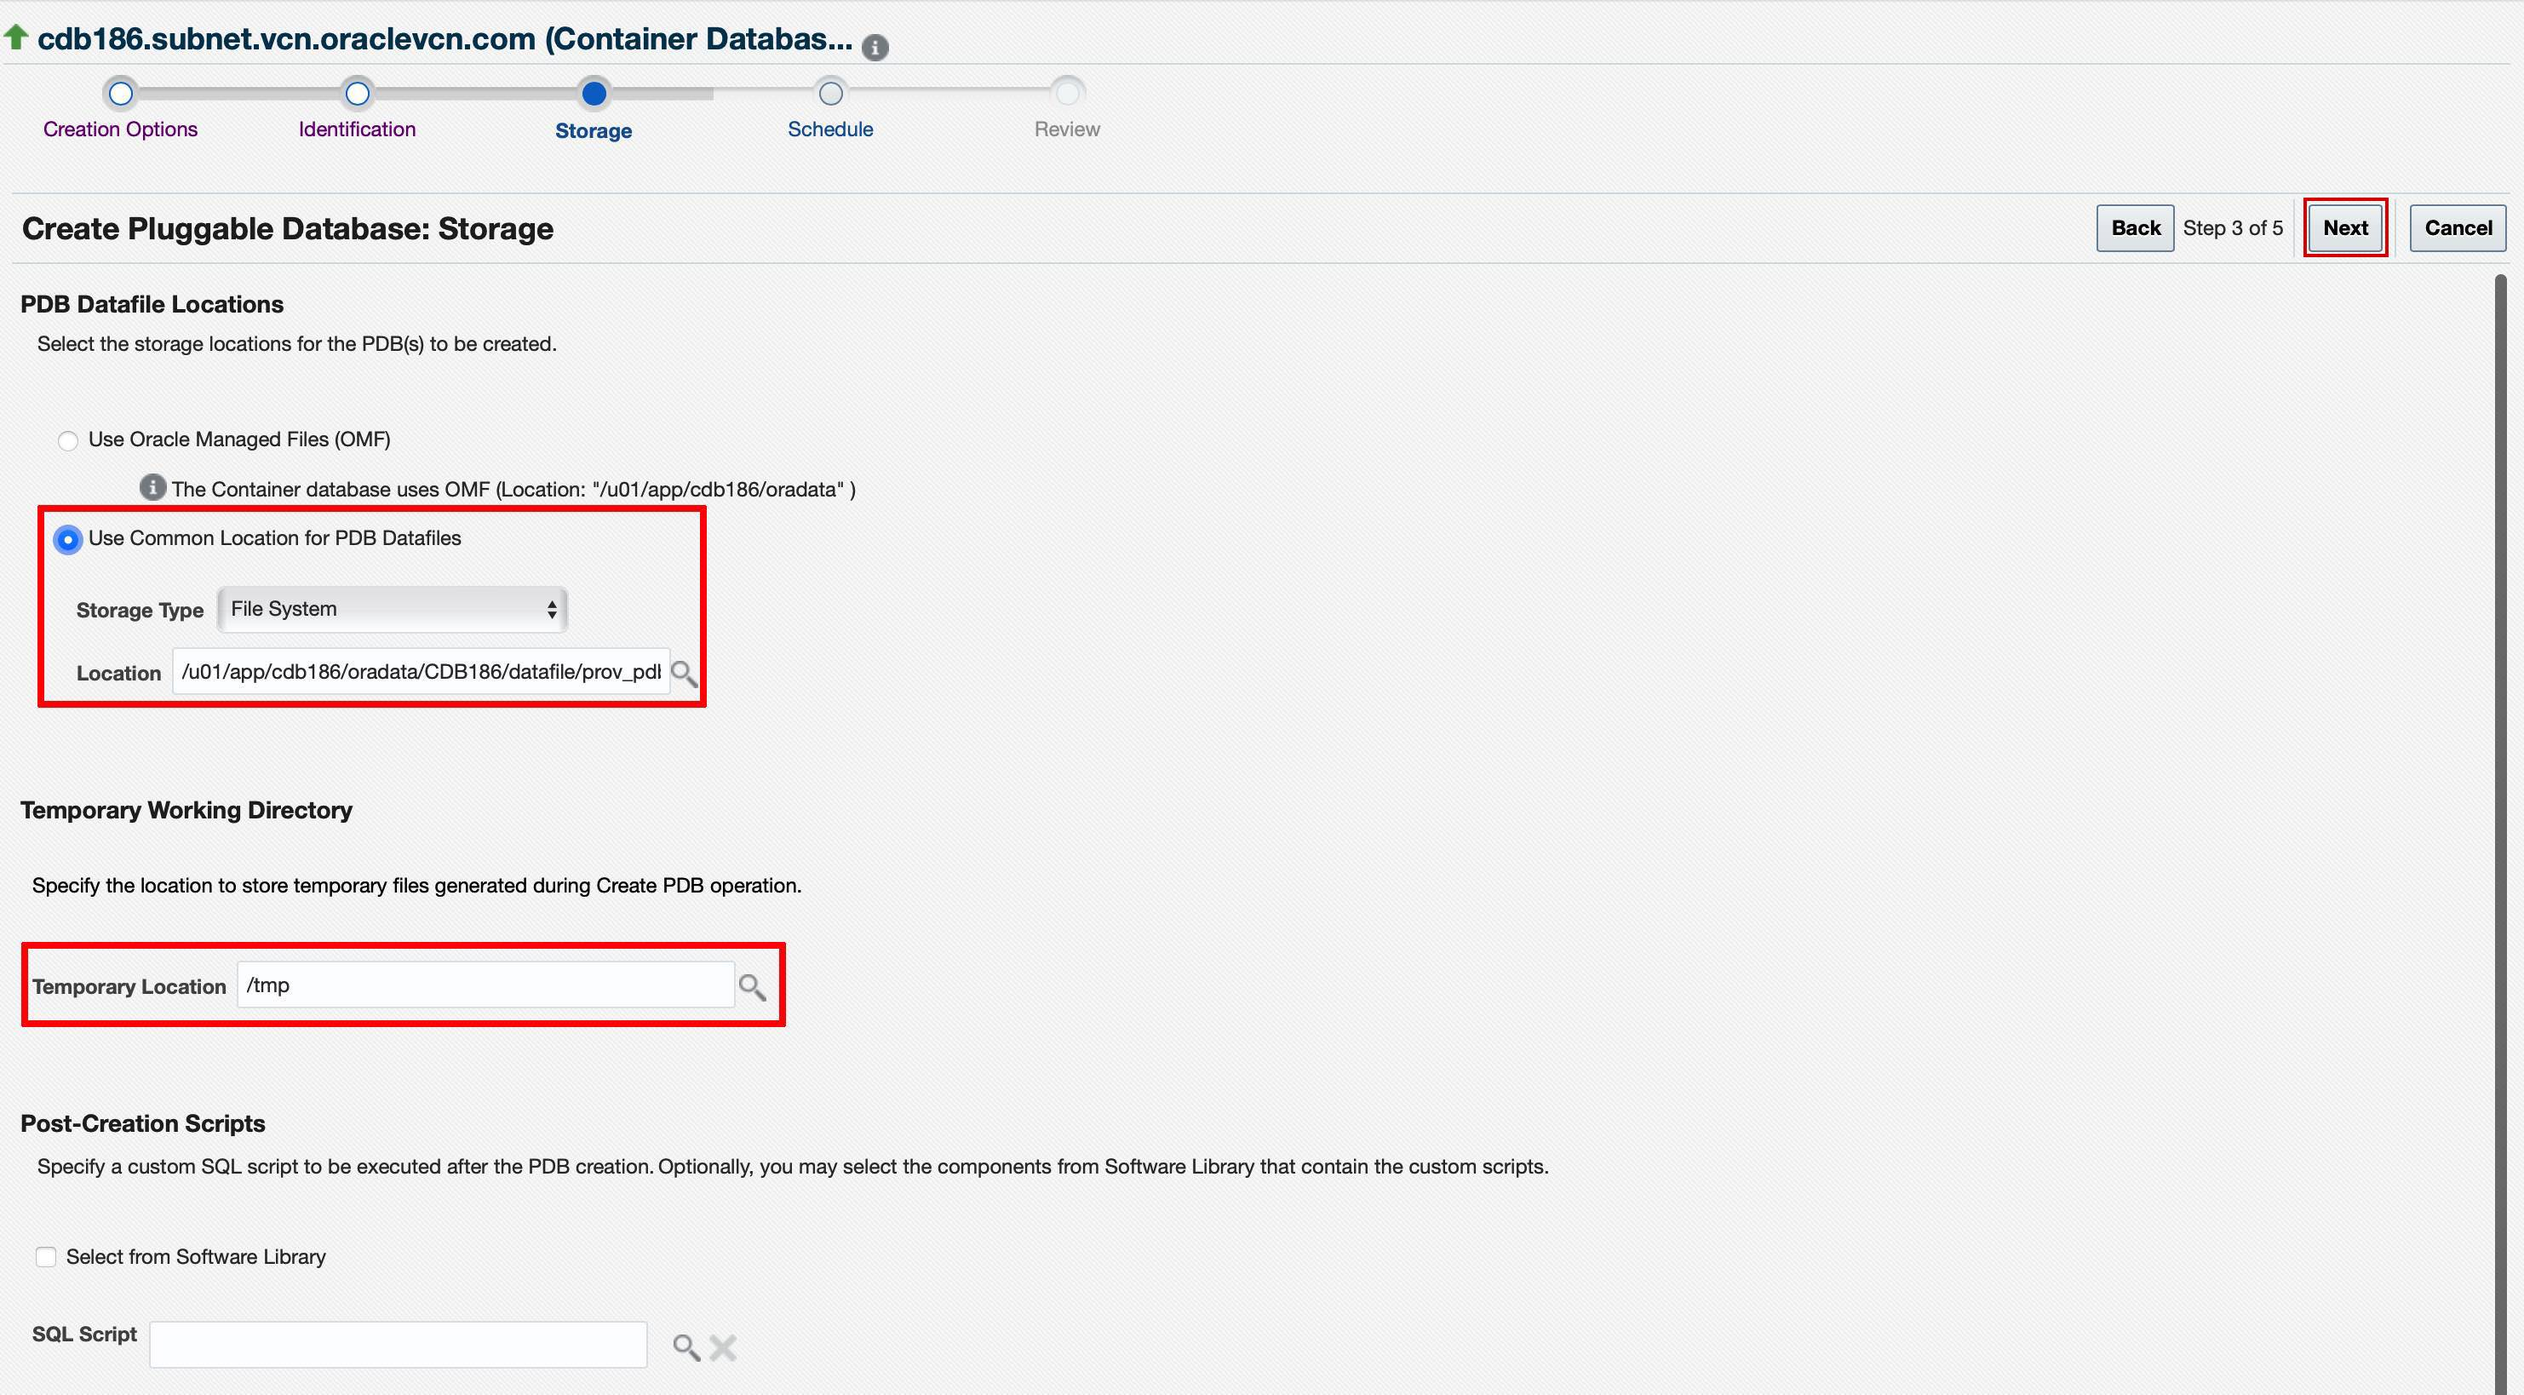
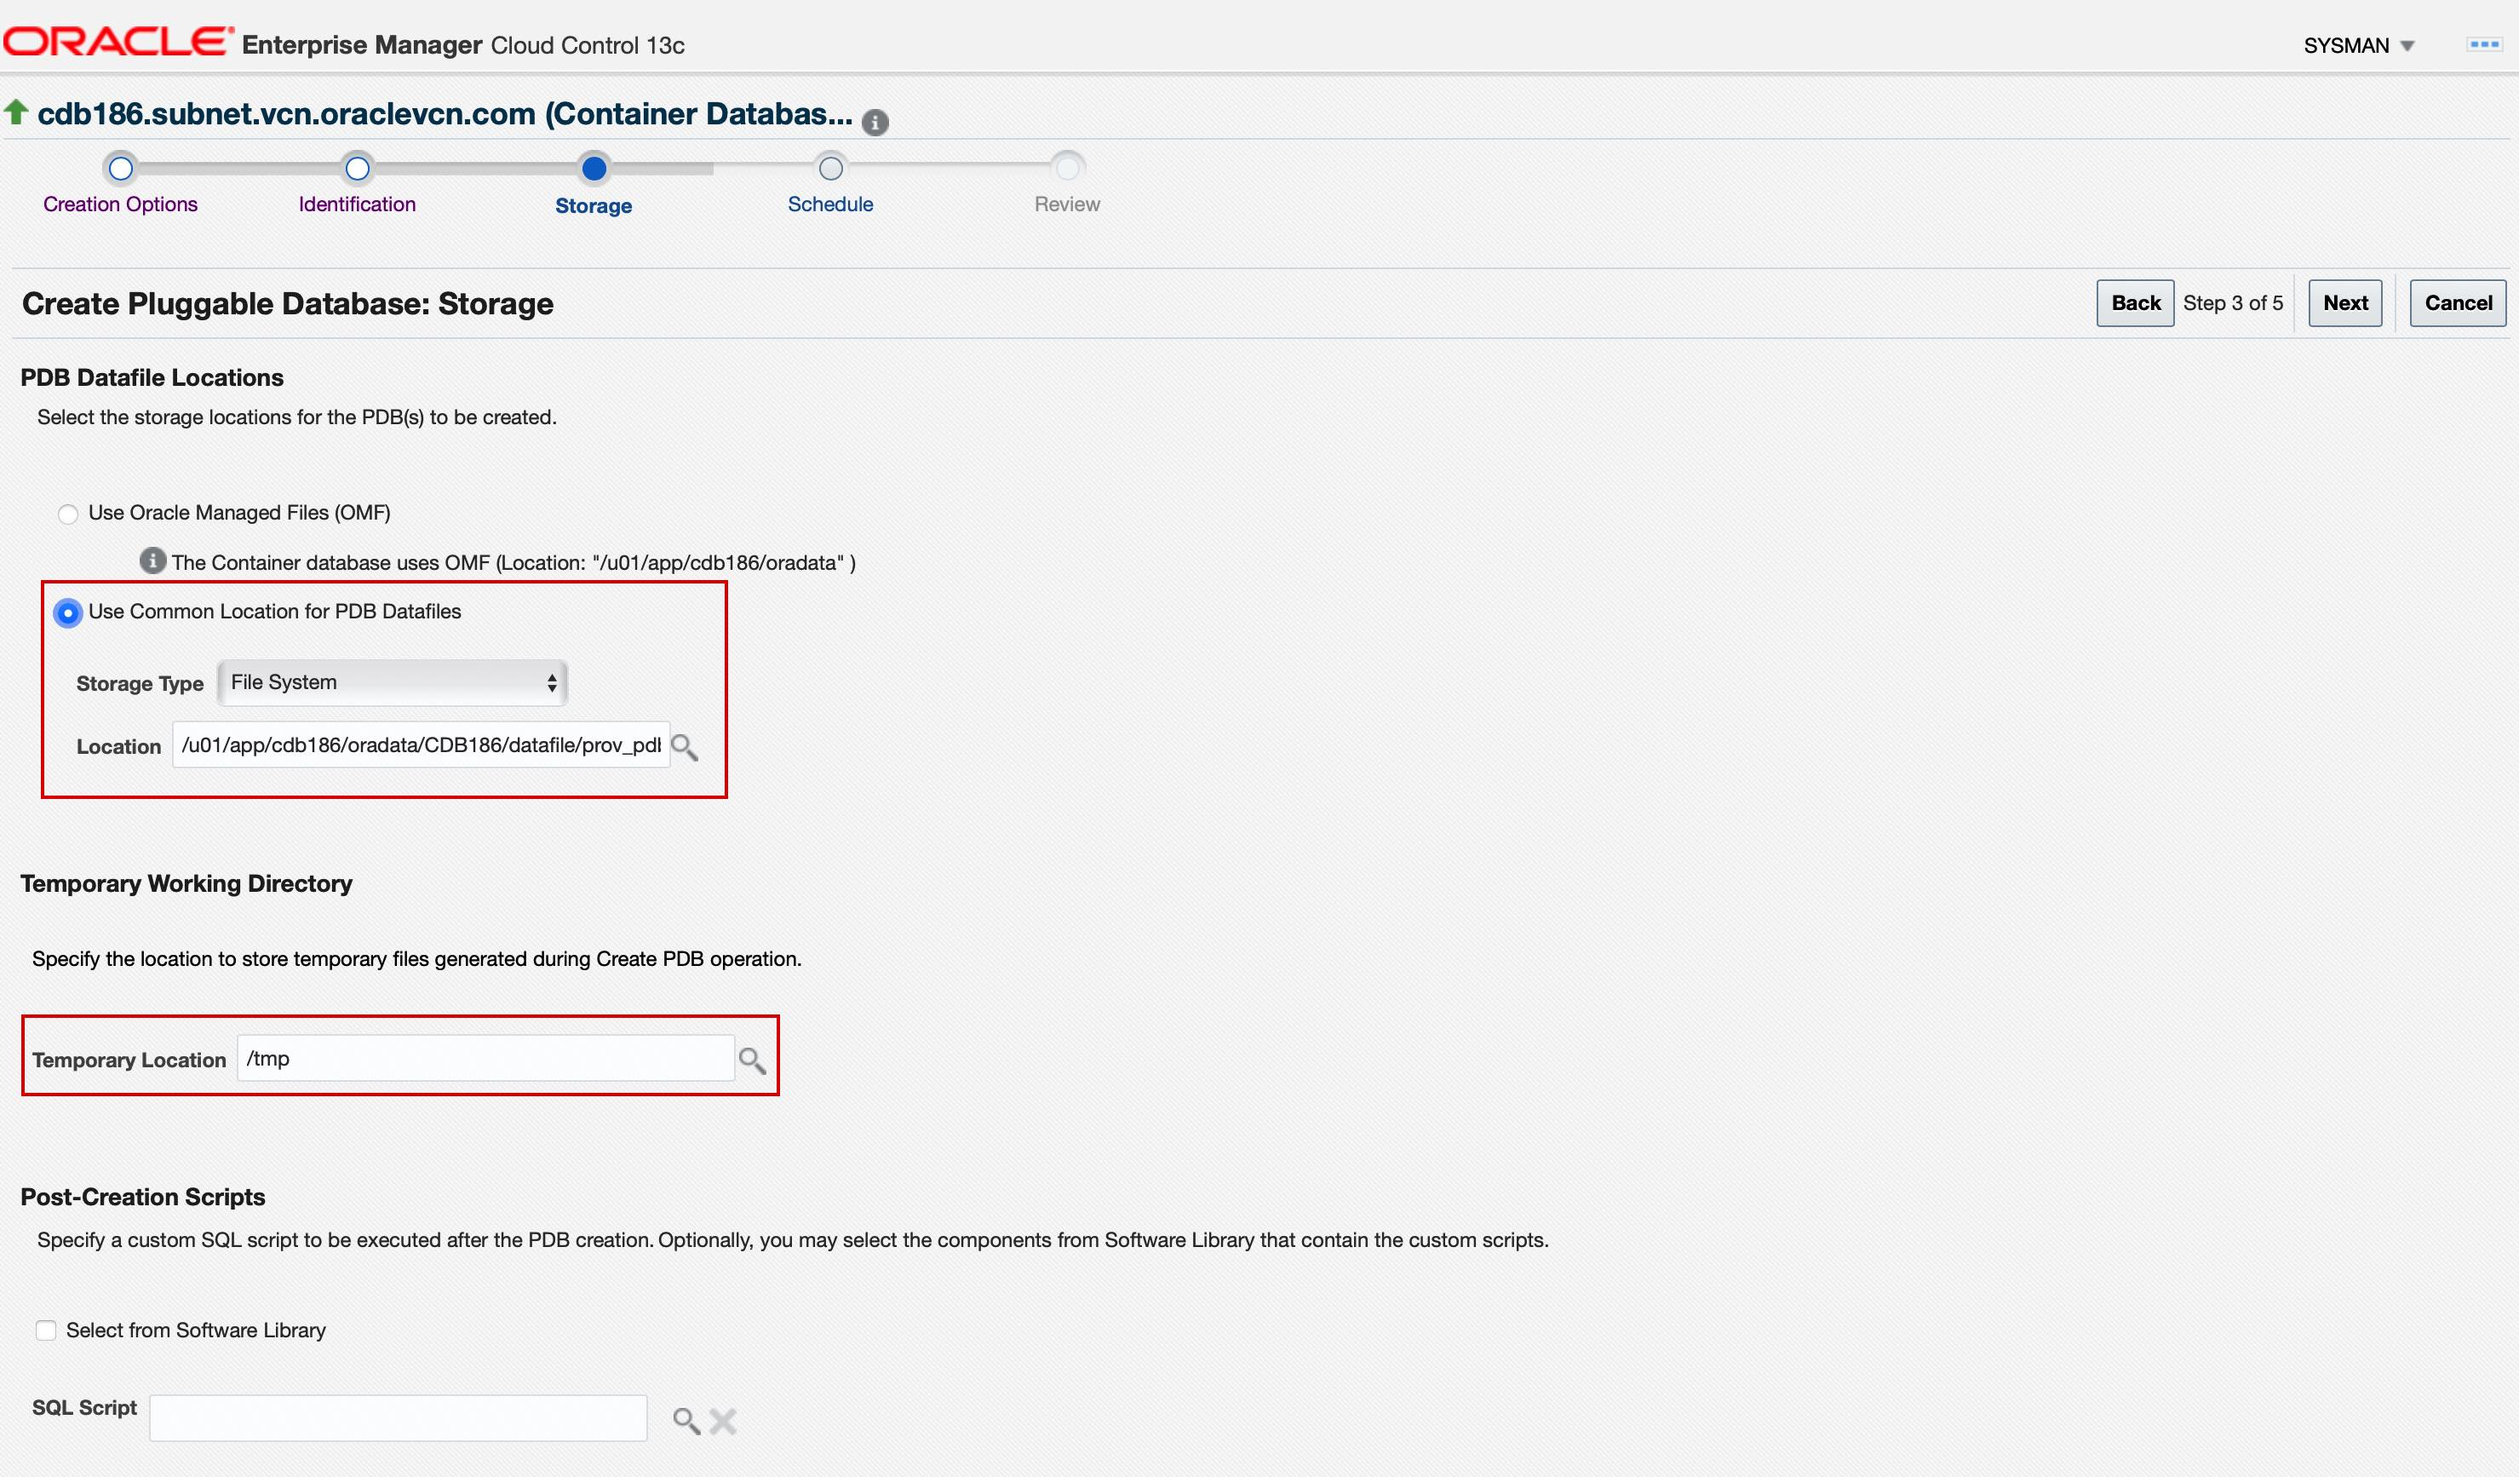
Task1-point9.jpg

diff --git a/enterprise-manager/emcc-new/em-multitenant-lifecycle-automation/em-multitenant-lifecycle-automation.md b/enterprise-manager/emcc-new/em-multitenant-lifecycle-automation/em-multitenant-lifecycle-automation.md
@@ -107,9 +107,9 @@ The objective of this workshop is to highlight Oracle Enterprise Manager 13c Lif
     Password: <copy>welcome1</copy>
     ```
     
-    Click **Next**
+      Click **Next**
 
-  ![](images/Task1-step8-latest.jpg " ")
+    ![](images/Task1-step8-latest.jpg " ")
 
 
 
@@ -119,7 +119,6 @@ The objective of this workshop is to highlight Oracle Enterprise Manager 13c Lif
 
     The Temporary Working Directory is auto filled as **/tmp**
 
-    Click **Next**
 
     ![](images/Task1-point9.jpg " ")
 
